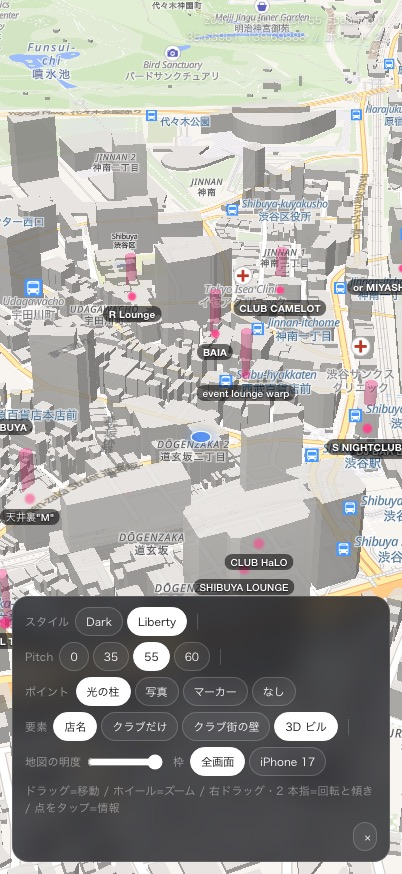
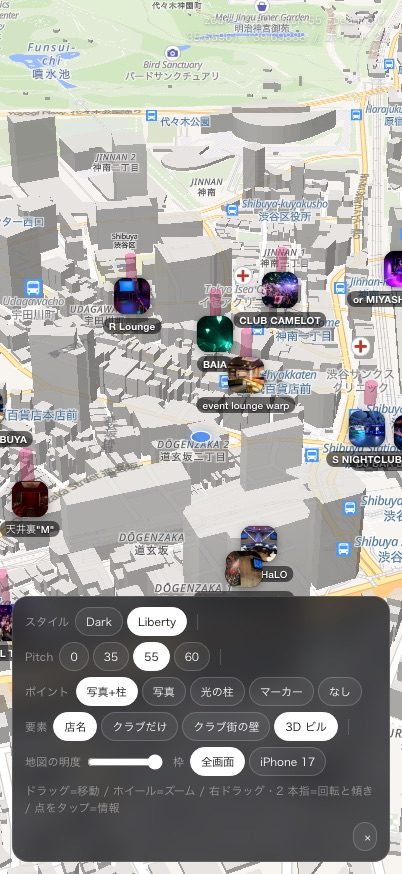
fix(World3D): 既定で店の写真を出し、起動カメラを engine の URL クエリで決める
ポイントの既定を「写真 + 光の柱」にした（写真が出ないまま開かれていた）。カメラは engine が
読み込み時の URL クエリで初回確定するので、engine より前に構図をクエリへ書く方式へ変更。
後から当て直す追従は保険に格下げ（自分の jumpTo が出す pitchstart で止まっていた）。

diff --git a/handoff/World3D/World3D.html b/handoff/World3D/World3D.html
@@ -11,6 +11,7 @@
 
   出しているデータは**渋谷のナイトクラブ 20 件だけ**（本番 DB の場所 = Places 由来。
   位置・店の写真・ジャンル・営業時間・評価を持つ）。開発用のモック（サークル / 投稿 / お題）は出さない。
+  既定の「ポイント」は 店の写真（36 の角丸タイル）+ 光の柱。操作盤で写真だけ / 柱だけにもできる。
 
   engine / vendor / data は R2（https://media.toopdbq.com/design/world3d/…）から読む。
   engine = アプリ実装（assets/web/earth/*.js）の一方向の写しなので、ここから編集しない。
@@ -139,8 +140,9 @@
   </div>
   <div class="sep"></div>
   <div class="grp"><span class="lbl">ポイント</span>
-    <button data-act="points" data-v="beam">光の柱</button>
+    <button data-act="points" data-v="both">写真+柱</button>
     <button data-act="points" data-v="photo">写真</button>
+    <button data-act="points" data-v="beam">光の柱</button>
     <button data-act="points" data-v="pin">マーカー</button>
     <button data-act="points" data-v="off">なし</button>
   </div>
@@ -166,14 +168,31 @@
 <!-- vendor: アプリが同梱しているものと同一版（MapLibre GL JS 5.6.0） -->
 <script src="https://media.toopdbq.com/design/world3d/vendor/maplibre-gl-5.6.0.js"></script>
 <!-- data: 本番 DB の場所（placeDetails）から渋谷のナイトクラブだけを抜いた生成物 -->
-<script src="https://media.toopdbq.com/design/world3d/data.js?v=0861fdab"></script>
+<script src="https://media.toopdbq.com/design/world3d/data.js?v=cc213411"></script>
+<script>
+// engine（map-core.js）は**自分が読み込まれた瞬間の URL クエリ**（lat / lng / zoom / pitch / bearing）で
+// 初回カメラを確定する。engine より前にここで data のエリアとページの既定を書いておけば、起動の瞬間から
+// 目的の構図になる（後から setCamera で当て直すと engine の初回確定と競合して構図が飛ぶ）。
+// URL で明示された値はそのまま残す（?zoom=17 等が勝つ）。
+(function () {
+  try {
+    const a = (window.World3DData || {}).area;
+    const u = new URL(location.href);
+    const set = (k, v) => { if (!u.searchParams.has(k)) u.searchParams.set(k, String(v)); };
+    if (a && Number.isFinite(a.lat)) { set('lat', a.lat.toFixed(6)); set('lng', a.lng.toFixed(6)); }
+    set('zoom', 15.8); set('pitch', 55); set('bearing', 0);
+    history.replaceState(null, '', u);
+  } catch (_) {}
+})();
+</script>
+
 <!-- engine: アプリ実装 assets/web/earth/*.js の写し。読み込み順は earth.html と同じ -->
-<script src="https://media.toopdbq.com/design/world3d/engine/bridge.js?v=0861fdab"></script>
-<script src="https://media.toopdbq.com/design/world3d/engine/map-core.js?v=0861fdab"></script>
-<script src="https://media.toopdbq.com/design/world3d/engine/pins.js?v=0861fdab"></script>
-<script src="https://media.toopdbq.com/design/world3d/engine/circles.js?v=0861fdab"></script>
-<script src="https://media.toopdbq.com/design/world3d/engine/overlay.js?v=0861fdab"></script>
-<script src="https://media.toopdbq.com/design/world3d/engine/places.js?v=0861fdab"></script>
+<script src="https://media.toopdbq.com/design/world3d/engine/bridge.js?v=cc213411"></script>
+<script src="https://media.toopdbq.com/design/world3d/engine/map-core.js?v=cc213411"></script>
+<script src="https://media.toopdbq.com/design/world3d/engine/pins.js?v=cc213411"></script>
+<script src="https://media.toopdbq.com/design/world3d/engine/circles.js?v=cc213411"></script>
+<script src="https://media.toopdbq.com/design/world3d/engine/overlay.js?v=cc213411"></script>
+<script src="https://media.toopdbq.com/design/world3d/engine/places.js?v=cc213411"></script>
 
 <script>
 // ============================================================================
@@ -193,13 +212,14 @@
   const on = (k, d) => (P.get(k) == null ? d : P.get(k) !== '0');
 
   // URL クエリで初期状態を指定できる
-  // （?style=liberty&pitch=60&points=photo&labels=0&wall=1&buildings=0&clubonly=1&framed=1&zoom=17&bearing=30&dim=.6）
+  // （?style=liberty&pitch=60&points=photo|beam|pin|off&labels=0&wall=1&buildings=0&clubonly=1&framed=1&zoom=17&bearing=30&dim=.6）
   const S = {
     zoom: num('zoom', 15.8),
     pitch: num('pitch', 55),
     bearing: num('bearing', 0),
     style: P.get('style') === 'liberty' ? 'liberty' : 'dark',   // 夜の街が主題なので既定は dark
-    points: ['beam', 'photo', 'pin', 'off'].includes(P.get('points')) ? P.get('points') : 'beam',
+    // 既定は店の写真 + 光の柱（写真が DB にある 20 件すべてに付く）
+    points: ['both', 'beam', 'photo', 'pin', 'off'].includes(P.get('points')) ? P.get('points') : 'both',
     labels: on('labels', true),
     clubOnly: on('clubonly', false),
     wall: on('wall', false),
@@ -242,8 +262,10 @@
       if (off) applyCamera();
       if (Date.now() - t0 < ms) setTimeout(tick, 150);
     };
+    // 止めるのは**指の操作だけ**。originalEvent を持たないイベントは自分の jumpTo が出したもの
+    // （setPitch の pitchstart で自分を止めてしまうため）
     ['dragstart', 'wheel', 'touchstart', 'pitchstart', 'rotatestart']
-      .forEach((ev) => map.on(ev, () => { camHeld = true; }));
+      .forEach((ev) => map.on(ev, (e) => { if (e && e.originalEvent) camHeld = true; }));
     tick();
   }
 
@@ -318,7 +340,8 @@
       el.addEventListener('click', (e) => { e.stopPropagation(); showCard(c); });
       labelMarkers.push(new maplibregl.Marker({
         // 写真タイル（36）の下に出す。柱 / マーカーのときは地点のすぐ下
-        element: el, anchor: 'top', offset: [0, S.points === 'photo' ? 22 : 10],
+        element: el, anchor: 'top',
+        offset: [0, (S.points === 'both' || S.points === 'photo') ? 22 : 10],
         pitchAlignment: 'viewport', rotationAlignment: 'viewport',
       }).setLngLat([c.lng, c.lat]).addTo(map));
     }
@@ -327,15 +350,16 @@
     if (!map.isStyleLoaded()) { whenReady(applyPoints); return; }
     const list = visible();
     // 写真 / マーカーは engine の場所ピン（アプリの既存ボキャブラリそのもの）
-    if (S.points === 'photo' || S.points === 'pin') {
+    const tile = S.points === 'both' || S.points === 'photo';
+    if (tile || S.points === 'pin') {
       window.setPlacePins({
         pins: list.map((c) => ({ key: c.key, lat: c.lat, lng: c.lng, imageUrl: c.imageUrl })),
-        style: S.points === 'photo' ? 'tile' : 'pin',
+        style: tile ? 'tile' : 'pin',
       });
     } else {
       window.clearPlacePins();
     }
-    const beam = S.points === 'beam' ? list : [];
+    const beam = (S.points === 'both' || S.points === 'beam') ? list : [];
     setGeo(SRC_PT, ptGeo(beam));
     setGeo(SRC_BEAM, beamGeo(beam));
     ensurePointLayers();
@@ -476,7 +500,7 @@
   whenReady(() => {
     enableInput();
     applyCamera();
-    holdCamera(3000);
+    holdCamera(6000);
     // ?style=… が liberty 以外なら style.load を待ってから貼る（switchStyle が完了後に applyAll）
     if (S.style !== 'liberty') switchStyle(S.style); else applyAll();
     syncUi();

diff --git a/handoff/World3D/HANDOFF.md b/handoff/World3D/HANDOFF.md
@@ -5,9 +5,9 @@
 （本番 DB の実データ）。開発用のモック（サークル・投稿・お題）は出さない。
 
 - ページ: `World3D.html`（Claude Design のページ一覧の「World3D」）
-- 直リンク: `https://media.toopdbq.com/design/world3d/World3D.html?v=0861fdab`
+- 直リンク: `https://media.toopdbq.com/design/world3d/World3D.html?v=cc213411`
   （`?v=` は配信キャッシュ避け。古い版が出たら本体側で再生成した新しい `?v=` をもらう）
-- 見た目の記録: `shots/points.jpg`（既定 = 夜 + 光の柱）/ `shots/photos.jpg`（店の写真）/
+- 見た目の記録: `shots/points.jpg`（既定 = 夜 + 店の写真 + 光の柱）/ `shots/beam.jpg`（柱だけ）/
   `shots/wall.jpg`（既存のエリアの壁と同居）/ `shots/liberty.jpg`（昼）
 
 ## 依頼
@@ -17,9 +17,9 @@
 
 決めてほしいこと:
 
-1. **ポイントの姿** — 今は素の光の柱（ピンク `#ff3e88` / 半径 7m / 高さ 60m の押し出し）。
-   これは「点がそこにある」以上の意味を持たない仮の形。クラブの箱・音・混み具合のどれを立体で
-   語るのかを決める
+1. **ポイントの姿** — 今は 店の写真（36 の角丸タイル = アプリ既存の場所ピン）+ 素の光の柱
+   （ピンク `#ff3e88` / 半径 7m / 高さ 60m の押し出し）。柱は「点がそこにある」以上の意味を持たない
+   仮の形。クラブの箱・音・混み具合のどれを立体で語るのかを決める（写真だけ / 柱だけにも切り替えられる）
 2. **密集の扱い** — 20 点が半径 580m に入る（道玄坂・円山町は 1 ビルに複数）。今は店名の pill が
    素直に重なる。まとめる / 寄ると分かれる / 遠いと 1 つになる、のどれか
 3. **遠近** — 街の中（zoom 16〜17.5）と、引いた渋谷全体（zoom 14 前後）と、地球（zoom 6.4）で
@@ -49,7 +49,7 @@
 DOM マーカー、いずれも足せる。
 
 操作盤（左下）はサンドボックスの道具でデザインではない。`×` でしまえる。提案では消してよい。
-URL クエリ: `?style=liberty&pitch=60&points=photo|pin|off&labels=0&wall=1&buildings=0&clubonly=1&framed=1&zoom=17&bearing=30&dim=.6`
+URL クエリ: `?style=liberty&pitch=60&points=both|photo|beam|pin|off&labels=0&wall=1&buildings=0&clubonly=1&framed=1&zoom=17&bearing=30&dim=.6`
 
 ## データ（`data.js`）
 
@@ -84,6 +84,8 @@ URL クエリ: `?style=liberty&pitch=60&points=photo|pin|off&labels=0&wall=1&bui
 - pitch に応じて上パディングが入る（最大 = 画面高の 40%）。壁を出す間は呼び出し側が画面比で固定
   （このページは画面高の 23%）
 - 実機の画面は 402×874、SafeArea は上 62 / 下 34、タップ目標は 44pt 以上
+- engine は**読み込まれた瞬間の URL クエリ**（`lat` / `lng` / `zoom` / `pitch` / `bearing`）で初回カメラを
+  確定する。構図はそこに書く（後から当て直すと engine の初回確定と競合して飛ぶ）
 
 **3D ビル**
 - `liberty` は style 標準の `building-3d`（`fill-extrusion`・minzoom 14・色 hsl(35,8%,85%)・不透明度 .8）
